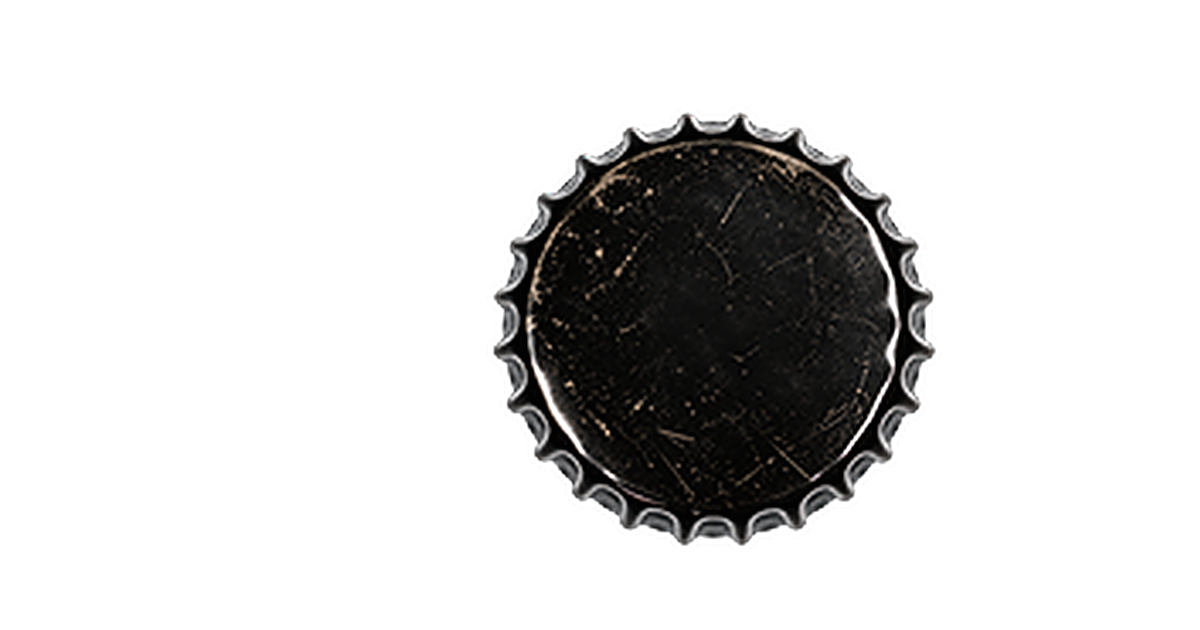
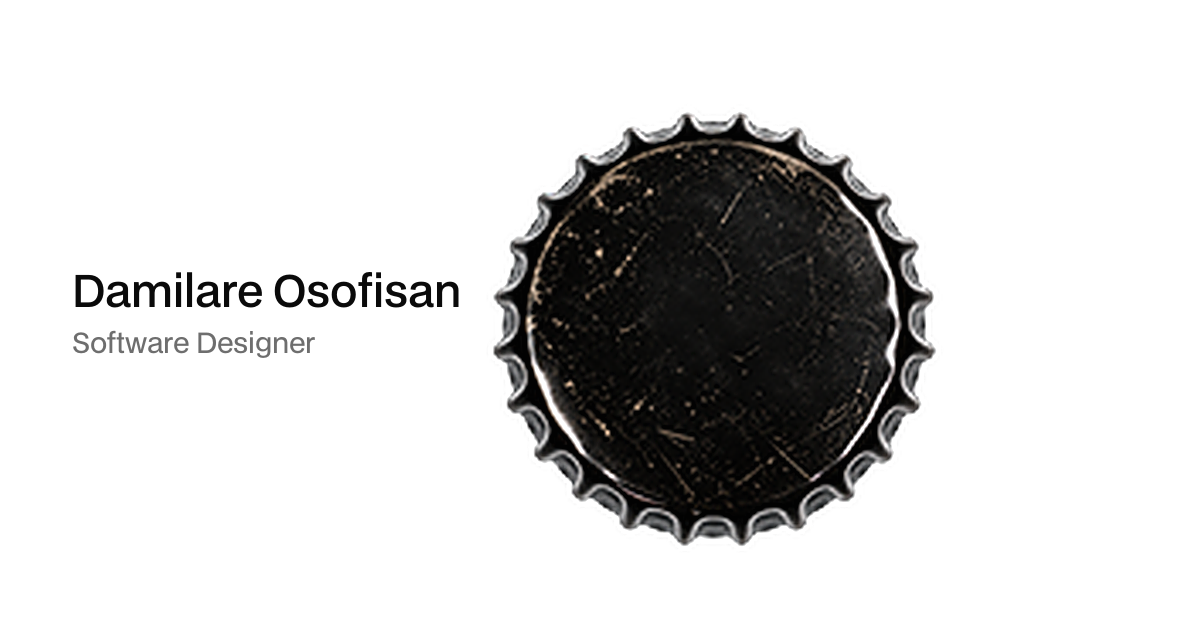
Software Designer titles, OG card copy, LLM discoverability
- OG share card reads Damilare Osofisan / Software Designer.
- All page titles say Software Designer; body copy keeps Product.
- llms.txt brief plus JSON-LD Person schema (role, history,
  profiles) for search and LLM crawlers.

Changed region(s): [[0.0617, 0.4222, 0.4008, 0.573]]

diff --git a/app/layout.tsx b/app/layout.tsx
@@ -65,6 +65,39 @@ export const viewport: Viewport = {
   ],
 };
 
+/* Structured identity for search engines and LLM crawlers: who this
+ is, what they do, and where the proof lives. Plain JSON-LD, no deps. */
+const personSchema = {
+ "@context": "https://schema.org",
+ "@type": "Person",
+ name: site.name,
+ url: site.url,
+ jobTitle: "Software Designer",
+ address: { "@type": "PostalAddress", addressLocality: "Lagos", addressCountry: "NG" },
+ email: `mailto:${site.email}`,
+ sameAs: [
+ "https://x.com/damilareoo",
+ "https://github.com/damilareoo",
+ "https://layers.to/damilareoo",
+ site.linkedin,
+ "https://www.are.na/damilare-osofisan",
+ ],
+ knowsAbout: [
+ "Product Design",
+ "Software Design",
+ "UX Design",
+ "Interaction Design",
+ "Design Systems",
+ "Brand Design",
+ "Design Engineering",
+ ],
+ worksFor: [
+ { "@type": "Organization", name: "Endgame.ai", jobTitle: "Product Designer" },
+ { "@type": "Organization", name: "ChessEver", jobTitle: "Founding Designer" },
+ { "@type": "Organization", name: "HEX", jobTitle: "Design Partner" },
+ ],
+};
+
 export default function RootLayout({ children }: { children: React.ReactNode }) {
   return (
     <html
@@ -86,6 +119,10 @@ export default function RootLayout({ children }: { children: React.ReactNode }) 
           <CoinFavicon />
         </ThemeProvider>
         <Analytics />
+        <script
+          type="application/ld+json"
+          dangerouslySetInnerHTML={{ __html: JSON.stringify(personSchema) }}
+        />
       </body>
     </html>
   );

diff --git a/app/page.tsx b/app/page.tsx
@@ -6,7 +6,7 @@ import { ExplorationsRail } from "@/components/explorations-rail";
 import { ShotPeek } from "@/components/shot-peek";
 
 export const metadata: Metadata = {
- title: { absolute: "Damilare Osofisan — Product Designer" },
+ title: { absolute: "Damilare Osofisan — Software Designer" },
  description:
  "Damilare Osofisan — product designer building 0–1 products. Currently building Hitman's Library. Previously Endgame.ai, ChessEver, HEX.",
  openGraph: {
@@ -74,7 +74,7 @@ export default function Home() {
  <div id="top" className="mx-auto w-full max-w-[600px] scroll-mt-20 px-5 pb-10">
  {/* ── header ── */}
  <header className="mt-6">
- <h1 className="sr-only">Damilare Osofisan — Product Designer</h1>
+ <h1 className="sr-only">Damilare Osofisan — Software Designer</h1>
  <p className="font-sans text-sm font-medium text-ink">I like figuring things out.</p>
  <p className="mt-4 text-pretty font-sans text-sm leading-normal">
  I design and build digital products across web and mobile.

diff --git a/app/opengraph-image.tsx b/app/opengraph-image.tsx
@@ -3,7 +3,7 @@ import { join } from "node:path";
 
 export const size = { width: 1200, height: 630 };
 export const contentType = "image/png";
-export const alt = "Damilare Osofisan — black bottle cap on white";
+export const alt = "Damilare Osofisan, Software Designer — black bottle cap on white";
 
 /* The share card is the coin, full stop. It used to be a generated dark
    lockup with the portrait; the owner chose the cap instead, so this route

diff --git a/data/site.ts b/data/site.ts
@@ -1,6 +1,6 @@
 export const site = {
   name: "Damilare Osofisan",
-  role: "Product Designer",
+  role: "Software Designer",
   headline: "Product Designer building 0–1 products",
   location: "Lagos, Nigeria",
   /* Where this site actually is, and it has to be the live one: every absolute
